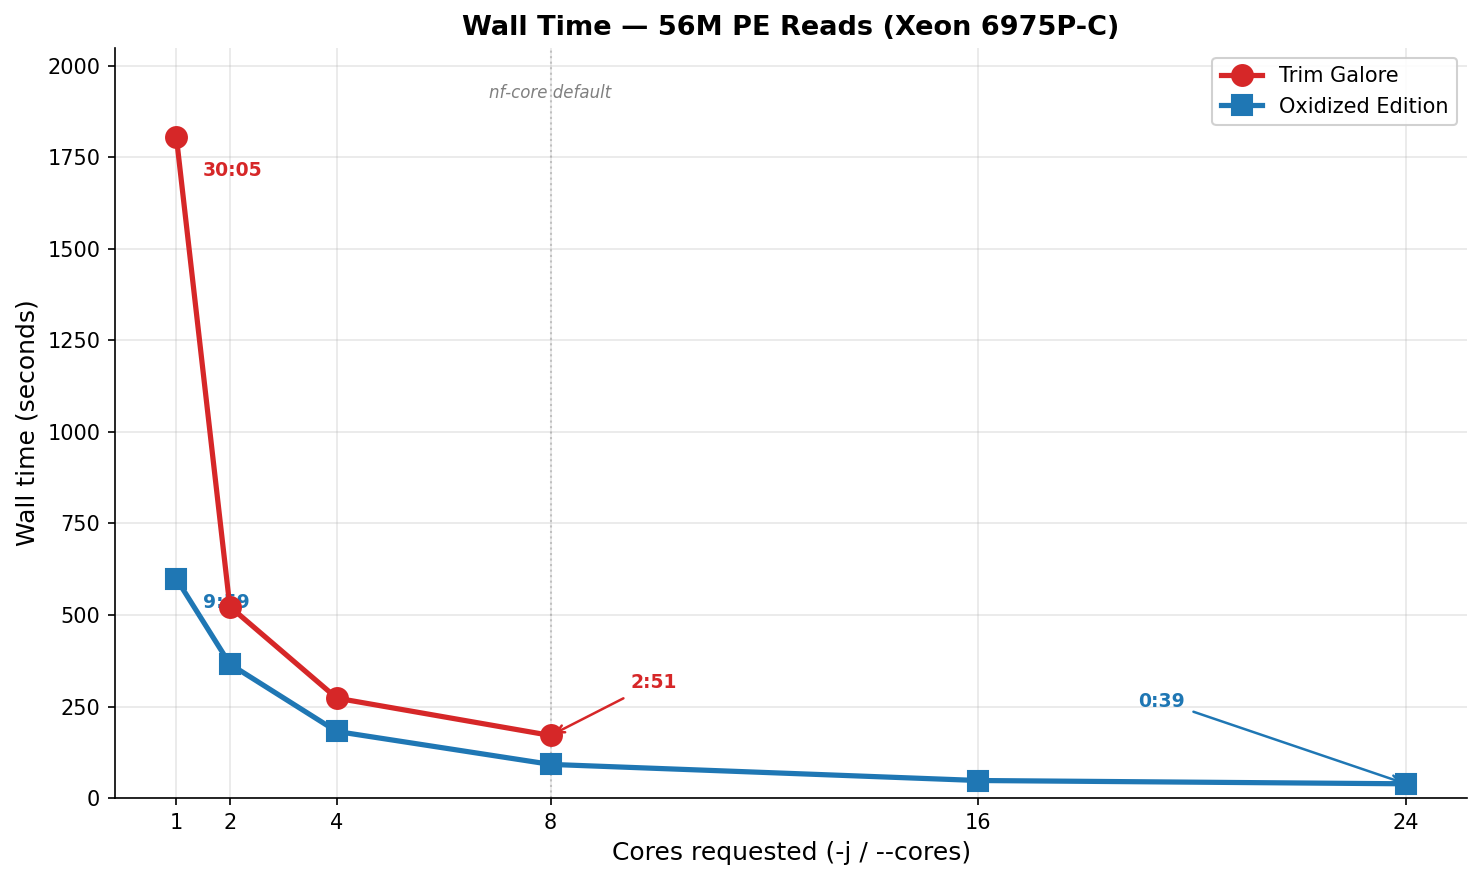
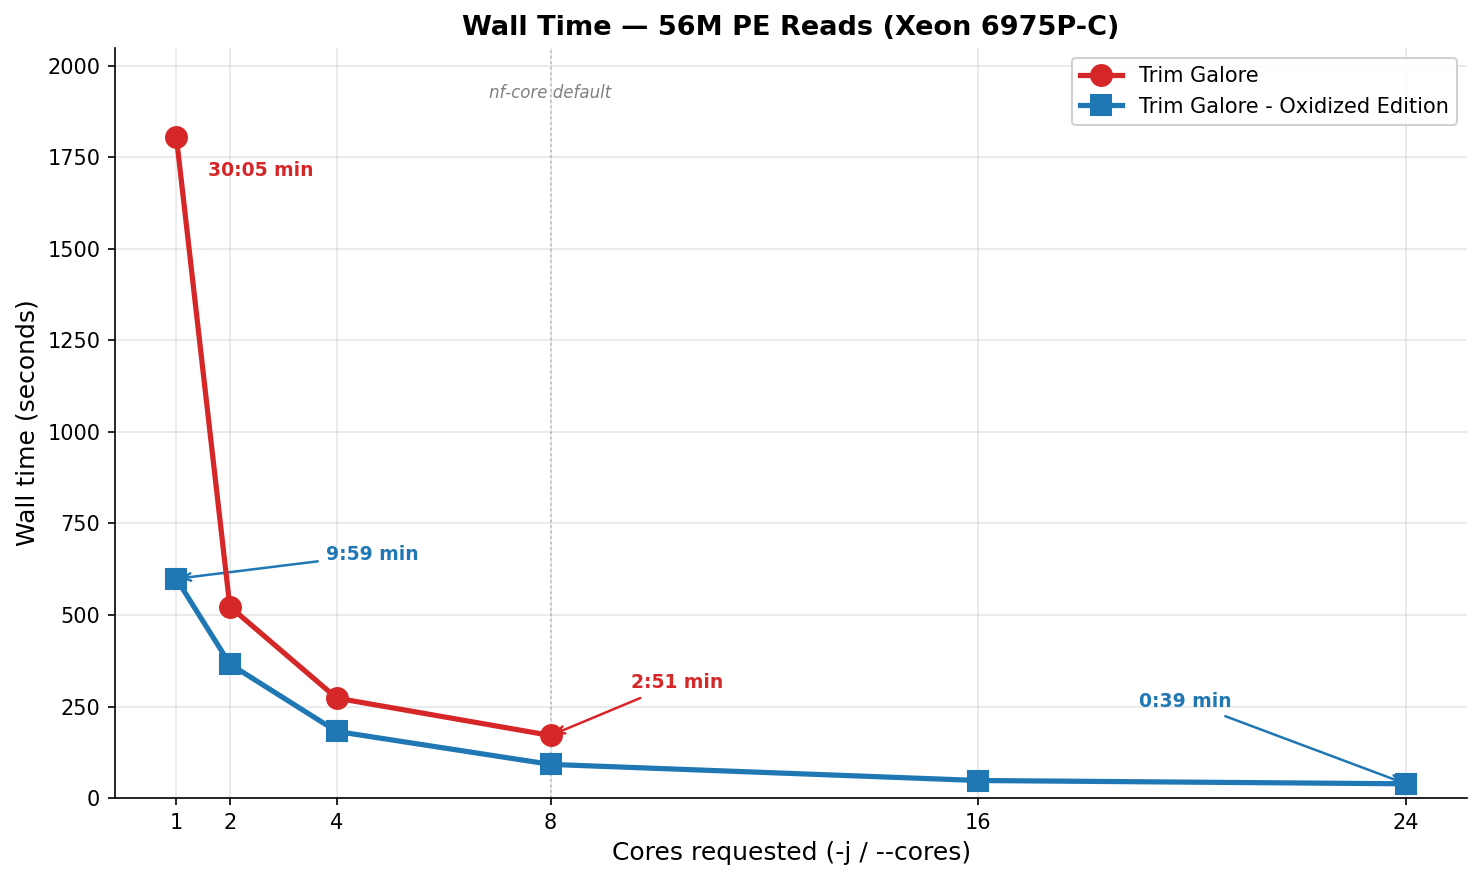
Improve charts and add "Why switch?" section to SUMMARY.md
Charts:
- Rename legend labels to "Trim Galore - Oxidized Edition"
- Wall time: add "min" units, fix obscured 9:59 label
- Scaling: declutter low-core labels, remove hard-to-read
  green annotation

SUMMARY.md:
- Add parallel efficiency at 24 cores (64%) and sweet-spot
  recommendation (8-16 cores)
- Add poly-G/poly-A to "Beyond speed" feature list
- Add "Why switch?" section covering wall time gains, CPU/cost
  savings with CO2 angle, new features, and core recommendations

diff --git a/optimus_prime/SUMMARY.md b/optimus_prime/SUMMARY.md
@@ -151,7 +151,7 @@ At `--cores 1`, the worker-pool is bypassed entirely — a single thread does ev
 
 At `-j 8` vs `--cores 8`: up to ~27 vs exactly 12 threads, yet 1.9x faster.
 
-Parallel efficiency on the Xeon: 82% (2 cores) → 82% (4 cores) → 81% (8 cores) → 78% (16 cores). The gentle slope means adding more cores continues to pay off up to at least 16.
+Parallel efficiency on the Xeon: 82% (2 cores) → 82% (4 cores) → 81% (8 cores) → 78% (16 cores) → 64% (24 cores). Scaling remains near-linear up to 16 cores, with diminishing returns beyond that. For most production use, `--cores 8` to `--cores 16` is the sweet spot — beyond 16, additional cores still help but deliver progressively less benefit per core.
 
 ### Benchmark methodology
 
@@ -169,3 +169,34 @@ Parallel efficiency on the Xeon: 82% (2 cores) → 82% (4 cores) → 81% (8 core
 - **Lower memory:** 5 MB single-threaded, ~10 MB per additional worker. No Python interpreter, no subprocess pipes.
 - **CPU-efficient:** Uses 2.6–5x less CPU time than Trim Galore — meaningful on shared HPC clusters where CPU-hours = money.
 - **Reproducible:** Pure Rust with deterministic behavior across platforms.
+- **New features:** Poly-G trimming (auto-detected for 2-colour instruments like NovaSeq/NextSeq) and poly-A trimming, both built in without external tools.
+
+## Why switch to Trim Galore - Oxidized Edition?
+
+The improvements are multilayered — there is no single "60x faster" headline, because the gains compound across several dimensions simultaneously:
+
+### 1. Faster wall time at the same resource allocation
+
+At the typical nf-core allocation of 12 CPUs, the Oxidized Edition with `--cores 8` finishes in **92 seconds vs 171 seconds** — nearly **twice as fast**. With `--cores 16`, it drops to **48 seconds (3.6x faster)** while still scaling efficiently. This means shorter pipeline runtimes, faster turnaround on time-sensitive analyses, and less queuing pressure on shared clusters.
+
+### 2. Dramatically lower CPU cost — and CO₂
+
+The Oxidized Edition uses **2.3–5x less CPU time** than Trim Galore for the same job. CPU time is what cloud providers bill for and what drives energy consumption:
+
+| Scenario | TG CPU time | Oxidized CPU time | **CPU savings** |
+|---|---|---|---|
+| Single-threaded | 3,001s | 599s | **5.0x** |
+| 8 cores (nf-core default) | 2,040s | 784s | **2.6x** |
+
+On AWS at ~$0.05/vCPU-hour, trimming 56M PE reads costs roughly **$0.34 with TG** vs **$0.13 with Oxidized** (at 8 cores). Across thousands of samples in a large cohort, this adds up to meaningful savings in both budget and carbon footprint.
+
+### 3. More features, fewer dependencies
+
+The Oxidized Edition includes features not available in vanilla Trim Galore:
+- **Poly-G trimming** with data-driven auto-detection for 2-colour instruments (NovaSeq, NextSeq, NovaSeq X) — no need for separate tools or manual `--nextseq` flags
+- **Poly-A trimming** for 3' poly-A tail removal
+- **Single binary** with zero external dependencies — no Python, no Cutadapt, no pigz, no conda environment
+
+### 4. Recommended core allocation
+
+Based on the benchmarks, we recommend `--cores 8` to `--cores 16` for production use. Scaling is near-linear up to 16 cores (78% parallel efficiency), with diminishing returns beyond that. For nf-core pipelines, the Oxidized Edition can use the full CPU allocation directly — no need to subtract cores for subprocess overhead, since everything runs in a single process.
